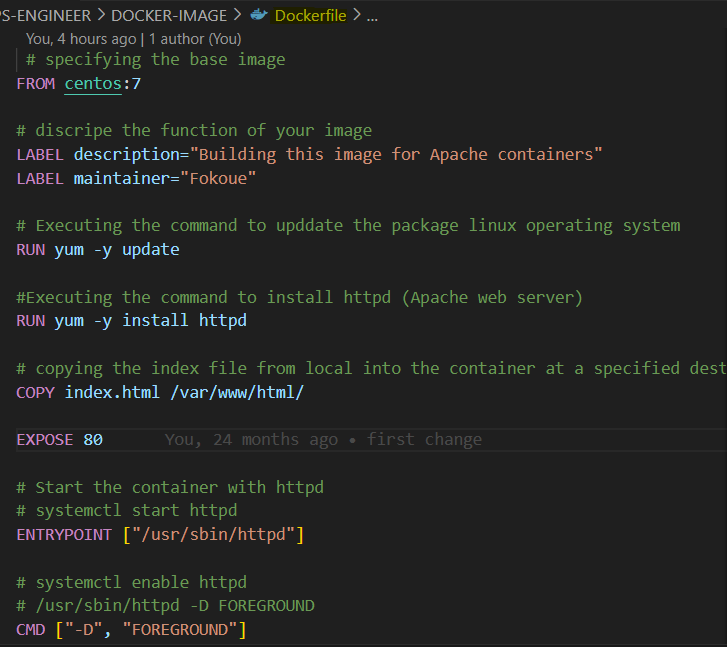
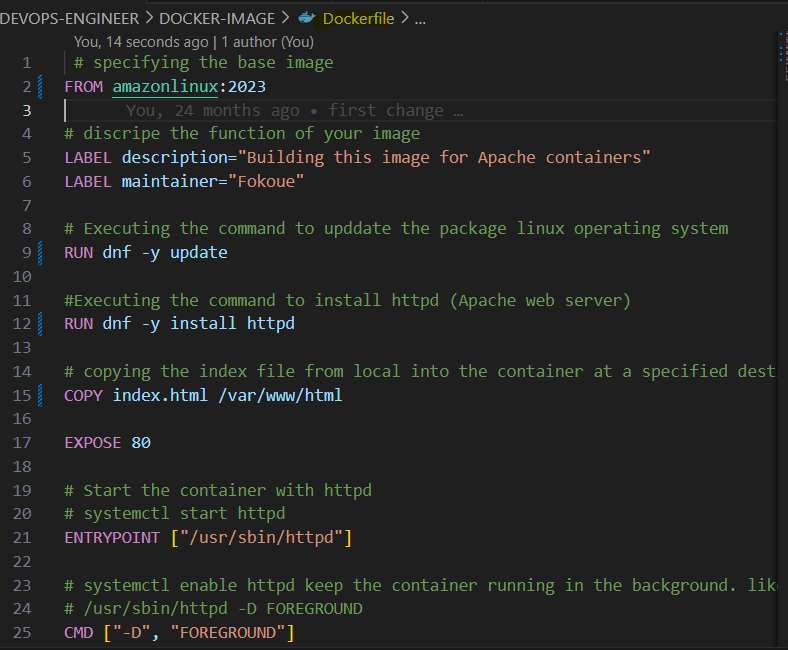
updated Dockerfile

diff --git a/README.md b/README.md
@@ -94,10 +94,10 @@ sudo su - ec2-user
 ```
 ![Alt text](images/html-in-ec2instance.png)
 
-### 4. After writing our Dockerfile use the syntax below that will allow us to build an image based on our Dockerfile
+### 4. After writing and placing our Dockerfile in our linux-server let use the syntax below that will allow us to build an image based on our Dockerfile
 
 ```
- docker build PATH -t image_tag:image_version
+ docker build -t linux_apache:v1 .
 ```
 ### 4. Here we are going to create a container base on our "image" and start that container 
 #### We are running and application that is inside the conatainer, we are not directly running the application reason for us to create a port were we can asses our application externaly. "The port need to be outside and inside of the container. So we use "-p(for port) the first 80(for inside) and the other 80(for outside)"
